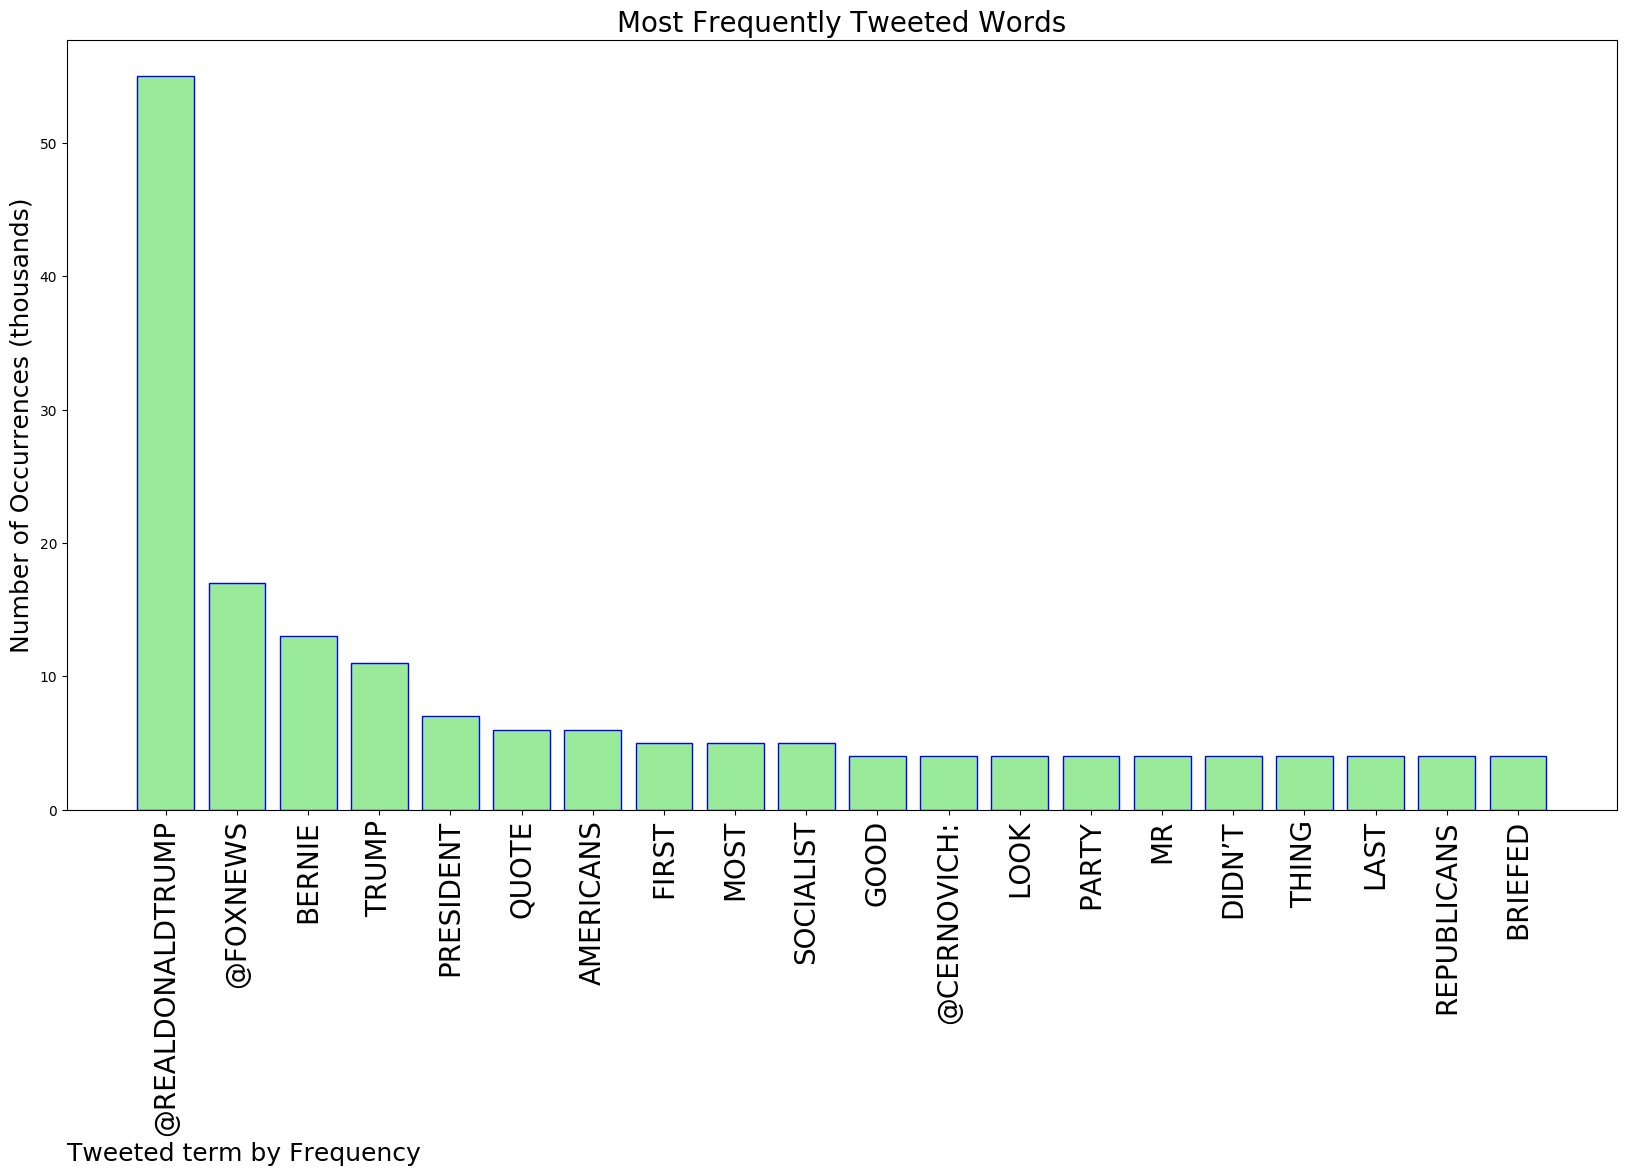
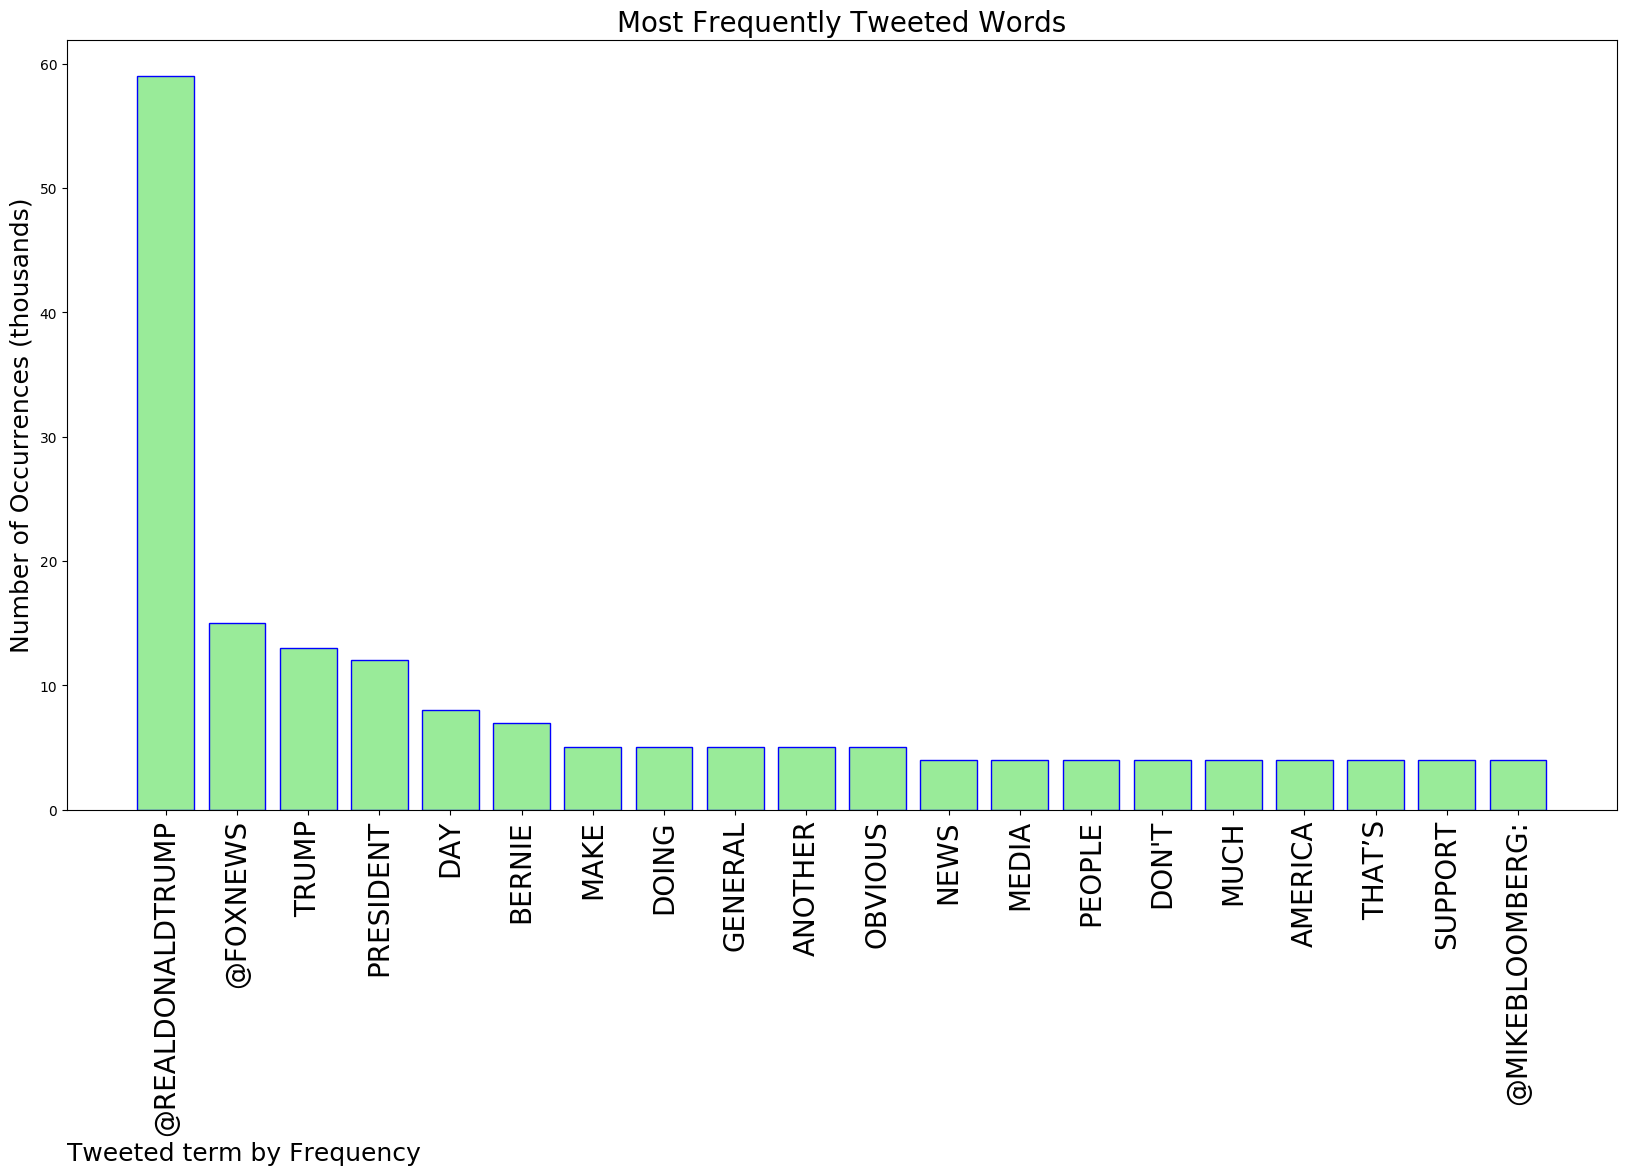
Updating with latest report

diff --git a/README.md b/README.md
@@ -15,20 +15,23 @@
 
 |                **Sample-Tweets**        |
 | :-------------: |
-| <div class="alert alert-block alert-warning">@k_ovfefe2 @realDonaldTrump @FoxNews Human spies to protect all involved.</div> <div class="alert alert-block alert-success">Lol we live in a simulation https://t.co/sLk0f7Zwf7</div> <div class="alert alert-block alert-info">RT @oneLOVE10053967: 😂🤣😂🤣😂🤣😂(:17 Timestamp) https://t.co/hFoWmkhQRE</div> |
-The most popular user is: **OFahrityLora**
-<div class="alert alert-block alert-danger"> RT @RepAdamSchiff: Mr. President, I didn’t say that. But if you wish to quote me, quote this:
+| <div class="alert alert-block alert-warning">RT @AFunnyValentine: ☑ ANOTHER Accomplishment👊TRUMP has flipped the '9th CIRCUS' Court appointing 10 JUDGES.⚡Causing the intended 'shock…</div> <div class="alert alert-block alert-success">RT @DonaldJTrumpJr: Solid point! Why was Bernie briefed about Russian interference with his campaign but we weren’t?We were much further…</div> <div class="alert alert-block alert-info">RT @SevereAnon: @Solmemes1 congrats!!This is YUGE!!</div> |
+The most popular user is: **RonHatcher8**
+<div class="alert alert-block alert-danger"> RT @DavidJHarrisJr: Look at who I ran into last night! 
 
-”The only thing Americans despise more than…</div>
+And @AGwilliamBarr watches my show? 
+
+Are you kidding me!!! 🙌🏽🇺🇸💪🏽
+@realDonaldTrum…</div>
 
 ## RELATED METRICS<br>
 | Metric | Value |
 | ------------- | ------------- |
 | #1 Most tweeted to  | **realDonaldTrump** |
 | #2 Most tweeted to  | **FoxNews** |
-| #3 Most tweeted to  | **Cernovich** |
-| NewProfiles (less than 10 days) | 2.0%  |
-| Tweeters with < 10 followers  | 4.0%|
+| #3 Most tweeted to  | **DonaldJTrumpJr** |
+| NewProfiles (less than 10 days) | 1.0%  |
+| Tweeters with < 10 followers  | 8.0%|
 | Tweeters with > 1000000 followers  | 0.0%  |
 
 
@@ -40,28 +43,34 @@ The most popular user is: **OFahrityLora**
 | ------------- | ------------- |
 | first  | **@REALDONALDTRUMP**  |
 | second  | **@FOXNEWS**  |
-| third  | **BERNIE** |
-| fourth  | **TRUMP**  |
-| fifth  | **PRESIDENT**  |
+| third  | **TRUMP** |
+| fourth  | **PRESIDENT**  |
+| fifth  | **DAY**  |
 
 
 ## Twitter Bio Analysis![image](BIO.png)
 ### SENTIMENT ANALYSIS
 ![image](sentiment.png)
-VIEWS WERE : **SUBJECTIVE**  (26.67%) & **NEGATIVELY-SUBJECTIVE** (0.0%) **OBJECTIVE** (73.33%)
+VIEWS WERE : **SUBJECTIVE**  (26.67%) & **NEGATIVELY-SUBJECTIVE** (20.0%) **OBJECTIVE** (53.33%)
 
 ### TWEET SAMPLE 
 Random value picked from array: 
 
-<div class="alert alert-block alert-info">@k_ovfefe2 @realDonaldTrump @FoxNews Human spies to protect all involved.</div>
+<div class="alert alert-block alert-info">RT @AFunnyValentine: ☑ ANOTHER Accomplishment
+👊TRUMP has flipped the '9th CIRCUS' Court appointing 10 JUDGES.
+
+⚡Causing the intended 'shock…</div>
 
 ### MOST RETWEETED 
 
-The most retweeted user is: **OFahrityLora**
+The most retweeted user is: **RonHatcher8**
 
-<div class="alert alert-block alert-danger"> RT @RepAdamSchiff: Mr. President, I didn’t say that. But if you wish to quote me, quote this:
+<div class="alert alert-block alert-danger"> RT @DavidJHarrisJr: Look at who I ran into last night! 
 
-”The only thing Americans despise more than…</div>
+And @AGwilliamBarr watches my show? 
+
+Are you kidding me!!! 🙌🏽🇺🇸💪🏽
+@realDonaldTrum…</div>
 
 ### CONCLUSION & EXTERNAL ANALYSIS
 
